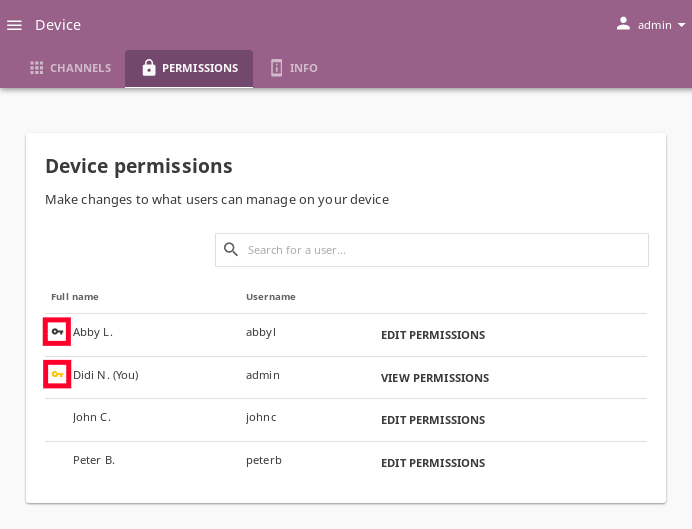
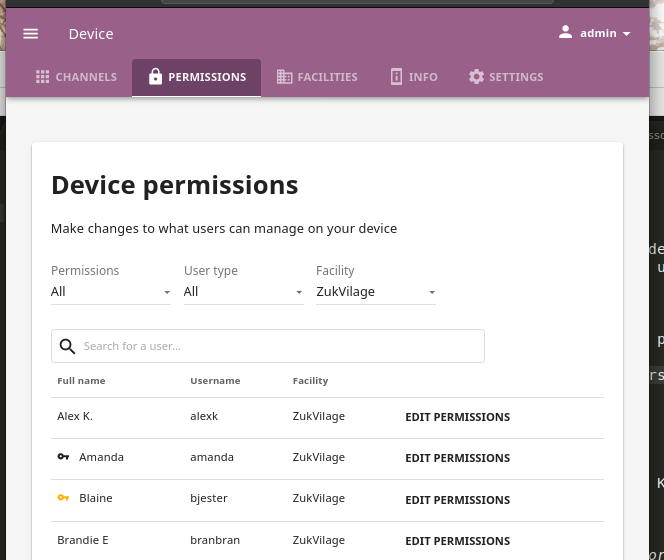
Second batch

diff --git a/docs/_static/theme_overrides.css b/docs/_static/theme_overrides.css
@@ -218,3 +218,8 @@ img {
 .admonition {
   clear: both;
 }
+
+/* push down the RTD banner so it's not confused with menu */
+.keep-us-sustainable {
+  margin-top: 20em !important;
+}

diff --git a/docs/manage/command_line.rst b/docs/manage/command_line.rst
@@ -141,66 +141,51 @@ You will be prompted to input the **Username** and **Password** and the new **su
 The full name for the new super admin user will be the same as the chosen ``username``, and can be edited in the **Facility > Users** page, or the user profile.
 
 
-Import Users from a CSV File
-****************************
+Import and Export User Data from a CSV File
+*******************************************
 
-.. note:: 
-  This is currently an experimental feature, so please forward to the development team any details about the issues you may encounter while using it.
+This feature is also available from the Kolibri user interface in the **Facility > Data** tab. It is recommended you read the :ref:`section of this guide which documents the feature <csv_import>`, especially the part about the :ref:`CSV format <csv_format>` before you try this command line utility. 
 
-  Command works on Kolibri version 0.9 and above.
+Import from CSV
+^^^^^^^^^^^^^^^
 
-CSV File Structure
-""""""""""""""""""
-
-To import users into Kolibri with this command, you will need to provide the user data in a CSV (comma separated values) file format. You can export a CSV file from a tabular data in any spreadsheet program (Excel, Google Sheets, LibreOffice Calc, etc.).
-
-  .. figure:: /img/csv.png
-      :alt: User data in a spreadsheet table
-
-      User data in a spreadsheet table.
-
-* Header row is optional, but if you do not include it, Kolibri will assume that you are providing the data in the following order:
-
-    ``<full_name>,<username>,<password>,<facility>,<class>``
-
-* If you do include a header row, you can provide less data, or put them a different order:
-
-    ``<full_name>,<username>,<password>``
-
-    ``<username>,<full_name>``
-
-* Only the ``username`` is required.
-
-* When you do not provide passwords for the imported users, Kolibri will set the default password ``kolibri`` for those usernames.
-
-* If you do not provide full names for the imported users, Kolibri will set them to be the same as the values for ``username``, and you can edit them in the **Facility > Users** page.
-
-* The facility can be either the facility name or the facility ID. If you do not provide the facility, Kolibri will import users in the default facility on the device. You can also specify the facility by adding the ``--facility`` argument in the command line (see below).
-
+Execute the *dry-run* of the command to review the report containing the number of users and classes to be created, updated or deleted, and see the list of any potential errors.
 
 .. code-block:: bash
 
-  kolibri manage importusers your-csv-file.csv
-
-  kolibri manage importusers your-csv-file.csv --facility <your-facility>
+  kolibri manage bulkimportusers --dryrun --output-file=my-school-users-2020.csv
 
 
-Export Users to a CSV File
-**************************
-
-To export users from Kolibri in a CSV file, run the below command. It does not export demographic data by default, but has an optional ``-d/--demographic-data`` flag to include them in the exported CSV file. 
+Run the command and review that the changes are visible in the **Facility** dashboard.
 
 .. code-block:: bash
 
-  kolibri manage exportusers your-csv-file.csv
-
-  kolibri manage exportusers your-csv-file.csv --demographic-data
+  kolibri manage bulkimportusers --output-file=my-school-users-2020.csv
 
 
-.. figure:: /img/exportusers.png
-  :alt: CSV file with the user data.
+If the CSV file does not contain all the non admin users or classes currently in the facility, using the ``--delete`` flag will remove them during the import process.
 
-  CSV file with the exported users including the demographic data.
+.. code-block:: bash
+
+  kolibri manage bulkimportusers --delete --output-file=my-school-users-2020.csv
+
+
+Export to CSV
+^^^^^^^^^^^^^
+
+Run the following command to create a ``users_<date>_<time>.csv`` file.
+
+.. code-block:: bash
+
+  kolibri manage bulkexportusers --overwrite --output-file=my-school-users-2020.csv
+
+
+To export a CSV file with localized headers, use the ``--locale`` flag.
+
+.. code-block:: bash
+
+  kolibri manage bulkexportusers --overwrite --output-file=lista-estudiantes-2020.csv --locale=es_ES
+
 
 
 Change User's Password

diff --git a/docs/manage/options_ini.rst b/docs/manage/options_ini.rst
@@ -3,21 +3,9 @@
 Customize Kolibri Settings with the OPTIONS.INI File
 ####################################################
 
-For certain configuration settings you need to use the ``options.ini`` file. Installing Kolibri does not generate this file by default, but you can easily add one yourself. Follow these steps.
+Installing Kolibri generates a default ``options.ini`` file with all the sections and values commented out with the ``#`` character at the beginning of the line. To see the ``options.ini`` file, open the ``.kolibri`` folder inside the :ref:`Home <home>` folder. 
 
-#. Open the preferred text editor on your computer (for example Notepad on Windows).
-#. Write the required *sections* and *keys* (see details for available settings below) in the following format:
-   
-    .. code-block:: ini
-
-      [section]
-      key1 = a
-      key2 = b
-
-3. Save the resulting ``options.ini`` file in the ``.kolibri`` folder inside the :ref:`Home <home>` folder. 
-   
-.. note::
-  ``options.ini`` file can contain several sections with one or more associated keys, depending on the requirements of your installation.   
+.. warning:: Some of the values in the  ``options.ini`` file, especially in the sections ``[Cache]``, ``[Database]``, and ``[Server]`` can have serious effects on the performance of your Kolibri server. **Do not edit them if you are not sure how they work!** 
    
 .. _port:
 
@@ -65,4 +53,5 @@ If you need to specify alternative locations for content to be available to Koli
   .. code-block:: ini
     
      [Paths]
-     CONTENT_FALLBACK_DIRS = /media/user/kolibri-content; /media/user2/kolibri-content-backup
+     CONTENT_FALLBACK_DIRS = ['/media/user/kolibri-content'; '/media/user2/kolibri-content-backup']
+

diff --git a/docs/manage/resources.rst b/docs/manage/resources.rst
@@ -43,6 +43,8 @@ Import Channels and Resources into Kolibri
 .. warning:: **Important**: You **cannot** import your own files (videos, documents, etc.) as learning resources directly into Kolibri from your computer. Kolibri can **only** import resources from:
 
   * already curated **channels** on `Kolibri Studio <https://studio.learningequality.org/accounts/login/>`__, if the computer running Kolibri is connected to internet
+  
+  * :ref:`another device in the same local network <local_network>` through *peer import*
 
   OR 
 
@@ -184,9 +186,14 @@ Follow these steps to import from a local network.
     - inability to be discovered by peers
     - inability to discover other peers
     - ability to be discovered, but not be available for import
-
+  
+  * On Windows 10 you need to explicitly allow both **Python** and ``kolibri.exe`` processes through the firewall, to be able to add a peer for import. Auto-discovery might still not work, but you will be able to add the peer IP manually and import resources.
 
   * This feature was introduced in Kolibri version 0.11, and all the server devices to be used for this type of resources import **must have the Kolibri version 0.11 or later** running.
+
+
+.. tip:: If want to :ref:`allow peer import of your private channels <allow_peer_import>`, which means that those channels will be visible and available for import on other peer devices in the same network, make sure to enable that option in the **Device > Settings**. 
+
 
 .. _local_drive:
 

diff --git a/docs/manage/permissions.rst b/docs/manage/permissions.rst
@@ -8,12 +8,12 @@ You can assign additional permissions to Kolibri users which will provide them a
 	.. figure:: ../img/manage-permissions.png
 	  :alt: Open the Device page and navigate to Permissions tab to see permissions for every user  
 
-.. TO-DO (image)
+.. tip:: Use filters to find users more efficiently, you can filter users by current **Permissions**, **User type** or  **Facility**.
 
 Permission to Manage Content
 ----------------------------
 
-To grant permission to another user to manage content channels in Kolibri, that is to import, export and delete them from the device, follow these steps.
+To grant permission to another user to manage channels and resources in Kolibri, that is to import, export and delete them from the device, follow these steps.
 
 #. Click :guilabel:`EDIT PERMISSIONS` for the chosen user.
 #. Under **Device permissions** activate the option *Can import and export content channels*.
@@ -41,5 +41,3 @@ The users who have been granted the **super admin** permissions will have a yell
 
 	.. figure:: ../img/permissions-keys.png
 	  :alt: Users with additional permissions will have icon indicators in front of their username 
-
-.. TO-DO (image)

diff --git a/docs/access/access_lan.rst b/docs/access/access_lan.rst
@@ -17,7 +17,7 @@ Kolibri currently supports the following combinations of operating systems and b
 * iOS 10+: Safari, Chrome and Firefox
 
 .. warning:: 
-  *	Videos in Kolibri are in MP4 file format. While most browsers do not require additional plugins or codecs, open source platforms and browsers will require you to install codecs separately. To be able to view videos in Firefox on Ubuntu for example, you must install the `restricted extras package <https://help.ubuntu.com/community/RestrictedFormats>`__.
+  *	Videos in Kolibri are in MP4 file format. While most browsers do not require additional plugins or codecs, open source platforms and browsers will require you to install codecs separately. If you encounter an *No compatible source was found for this media* error when you try to play videos in Firefox on Ubuntu for example, you must install the `restricted extras package <https://help.ubuntu.com/community/RestrictedFormats>`__.
   *	**If you are still unable to view videos in fully open source browsers like Chromium or Firefox, try using Google Chrome**.
 
 Set up Access on Other Devices

diff --git a/docs/install/ubuntu-debian.rst b/docs/install/ubuntu-debian.rst
@@ -36,6 +36,8 @@ Uninstall
 *********
 From the command line: ``sudo apt-get remove kolibri``.
 
+.. tip:: To remove all the user data and the downloaded channels, delete the ``~/.kolibri`` folder (go to **Device > Info** to find the exact location of the folder on your system). If you install Kolibri again, you will have to go through the :ref:`Initial Setup <setup_initial>` steps from the beginning.
+
 Upgrade
 *******
 
@@ -74,6 +76,8 @@ Uninstall
 
 * Open **Software** on Ubuntu and locate the Kolibri. Press **Remove**.
 * Or from the command line: ``sudo apt-get remove kolibri``.
+
+.. tip:: To remove all the user data and the downloaded channels, delete the ``~/.kolibri`` folder (go to **Device > Info** to find the exact location of the folder on your system). If you install Kolibri again, you will have to go through the :ref:`Initial Setup <setup_initial>` steps from the beginning.
 
 
 Upgrade

diff --git a/docs/coach/quizzes.rst b/docs/coach/quizzes.rst
@@ -63,7 +63,7 @@ Newly created quizzes are by default visible to entire class. To change quiz *Re
 
 #. Select the desired quiz from the list in the **Quizzes** subtab.
 #. Click the :guilabel:`OPTIONS` button and select the **Edit details** option.
-#. Select the group(s) of learners to whom you wish to assign the quiz under the *Recipients* heading.
+#. Select the learners and group(s) to whom you wish to assign the quiz under the *Recipients* heading.
 #. Click :guilabel:`SAVE CHANGES` to confirm, or :guilabel:`CANCEL` to exit without change.
 
   .. figure:: /img/exam-visibility.png

diff --git a/docs/install/windows.rst b/docs/install/windows.rst
@@ -37,6 +37,8 @@ Uninstall
 2. Select **Programs and Features** option.
 3. Select Kolibri from the list of programs.
 4. Click the button :guilabel:`Uninstall/Change` and follow the instructions.
+   
+.. tip:: To remove all the user data and the downloaded channels, delete the ``.kolibri`` folder (go to **Device > Info** to find the exact location of the folder on your system). If you install Kolibri again, you will have to go through the :ref:`Initial Setup <setup_initial>` steps from the beginning.
 
 
 Upgrade

diff --git a/docs/coach/lessons.rst b/docs/coach/lessons.rst
@@ -23,7 +23,7 @@ Create New Lesson
 To create a new lesson |lessons|, follow these steps.
 
 1. Click the :guilabel:`NEW LESSON` button.
-2. Fill in the field for the lesson title, description and choose the group(s) or the entire class as the recipients. 
+2. Fill in the field for the lesson title, description and choose individual learners, group(s) or the entire class as the recipients. 
 
   .. figure:: /img/new-lesson.png
     :alt: 

diff --git a/docs/install/macos.rst b/docs/install/macos.rst
@@ -26,6 +26,8 @@ Uninstall
 ---------
 
 Delete the Kolibri app icon from the  **Applications** folder.
+ 
+.. tip:: To remove all the user data and the downloaded channels, delete the ``.kolibri`` folder (go to **Device > Info** to find the exact location of the folder on your system). If you install Kolibri again, you will have to go through the :ref:`Initial Setup <setup_initial>` steps from the beginning.
 
 
 Upgrade

diff --git a/docs/install/python.rst b/docs/install/python.rst
@@ -54,7 +54,7 @@ Uninstall PEX
 -------------
 
 #. Delete the ``PEX`` file.
-#. Delete the ``./kolibri`` folder in your user's Home directory if you want to completely remove all the Kolibri files and content channels you imported.
+#. Delete the ``~/.kolibri`` folder in your user's Home directory if you want to completely remove all the Kolibri files and content channels you imported.
 
 Upgrade PEX
 -----------
